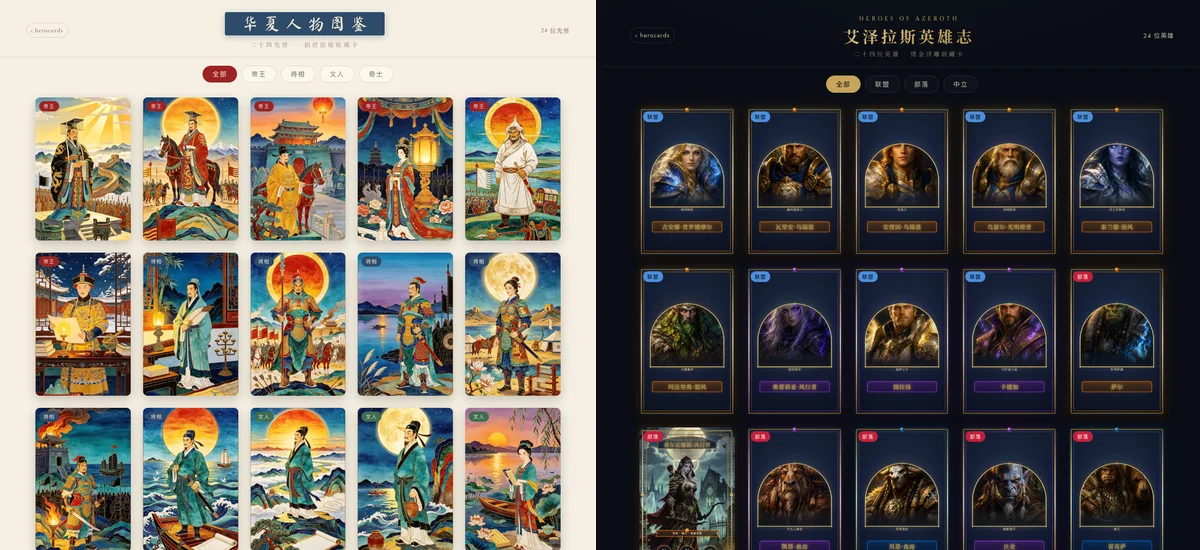
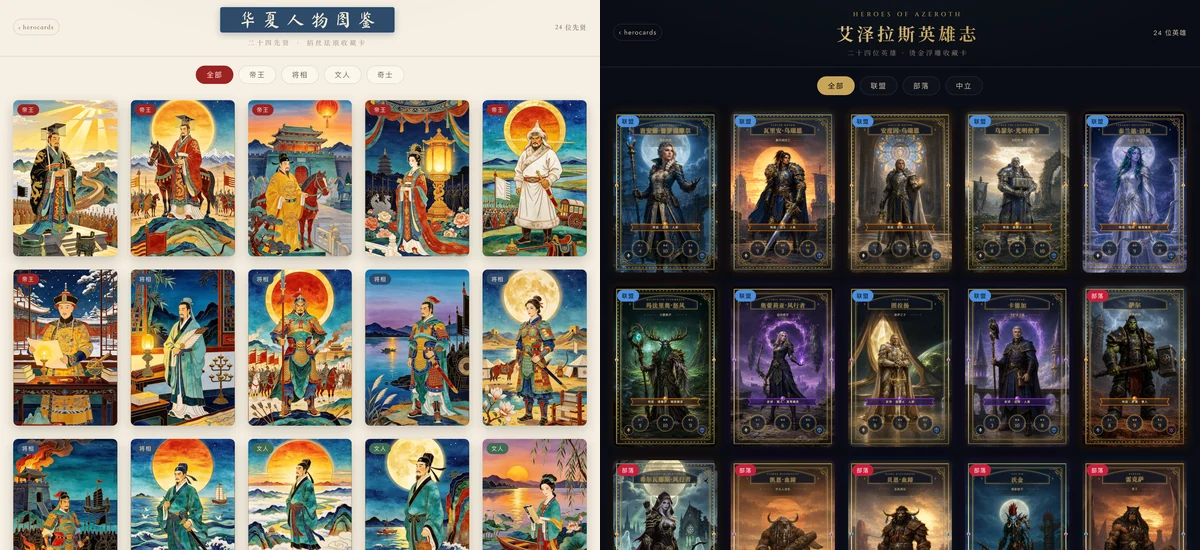
docs: MIT license, domain-agnostic about copy, refreshed theme-walls
- Add LICENSE (MIT) and package.json license field
- README/package/landing copy no longer frames the engine as
  Chinese-figures-only; themes are data, more can be added
- Rebuild theme-walls.webp from the current 24-card walls
- GitHub About now carries the Pages URL

diff --git a/site/index.html b/site/index.html
@@ -4,7 +4,7 @@
 <meta charset="UTF-8">
 <meta name="viewport" content="width=device-width, initial-scale=1.0">
 <title>herocards — 烫金浮雕收藏卡 · 华夏人物图鉴 × 艾泽拉斯英雄志</title>
-<meta name="description" content="herocards 双主题展示：华夏人物图鉴（二十四先贤掐丝珐琅卡 · 每日一晤）与艾泽拉斯英雄志（魔兽世界英雄烫金浮雕卡）。">
+<meta name="description" content="herocards · 烫金浮雕收藏卡引擎：数据驱动，不限题材。现有华夏人物图鉴（二十四先贤掐丝珐琅卡）与艾泽拉斯英雄志（魔兽英雄金线蚀刻卡）两套主题。">
 <link rel="icon" href="assets/icon.svg" type="image/svg+xml">
 <style>
 @font-face {
@@ -179,7 +179,7 @@ body {
 </main>
 
 <footer class="foot">
-  <p>herocards · WebGL 烫金浮雕卡牌实验 <a href="https://github.com/coolbat/herocards">GitHub</a></p>
+  <p>herocards · WebGL 烫金浮雕卡牌引擎 · MIT <a href="https://github.com/coolbat/herocards">GitHub</a></p>
 </footer>
 </body>
 </html>

diff --git a/README.md b/README.md
@@ -10,7 +10,7 @@
 
 ## 这是什么
 
-纯静态、零依赖的收藏卡渲染引擎：Canvas 2D 把一张 2:3 插画派生成 diffuse / height / normal / roughness 四张贴图，WebGL2 shader 做鼠标实时光照与视差——**画面里的金线是真实凸起的金属脊**，光扫过时整条亮起。同一套管线下跑着两个主题、各 24 位人物：
+纯静态、零依赖的收藏卡渲染引擎：Canvas 2D 把一张 2:3 插画派生成 diffuse / height / normal / roughness 四张贴图，WebGL2 shader 做鼠标实时光照与视差——**画面里的金线是真实凸起的金属脊**，光扫过时整条亮起。引擎本身不限题材：人物数据即主题，新主题只加数据、不改渲染代码，可随时扩展到任何领域。目前跑着两套主题、各 24 位人物：
 
 - **华夏人物图鉴** — 二十四先贤掐丝珐琅卡，附生平行旅图（经纬度投影大地图，可拖动缩放）
 - **艾泽拉斯英雄志** — 魔兽世界英雄金线蚀刻卡（粉丝向学习演示）
@@ -48,6 +48,7 @@ WORKFLOW.md           完整生产工作流（生图 SOP、QC 门槛、质量红
 
 ## 素材与版权
 
+- 代码以 MIT 协议发布（见 `LICENSE`）；下列素材保留各自许可。
 - 魔兽世界角色形象与设定版权归 Blizzard Entertainment 所有，本站仅作粉丝学习演示。
 - 书法字体：Ma Shan Zheng（SIL OFL 1.1）；印面小篆：崇羲篆体（CC-BY-ND，仅使用其渲染字形）。
 - 地图底图：Natural Earth / SRTM Plus（见 `assets/atlas/ATTRIBUTION.md`）。
